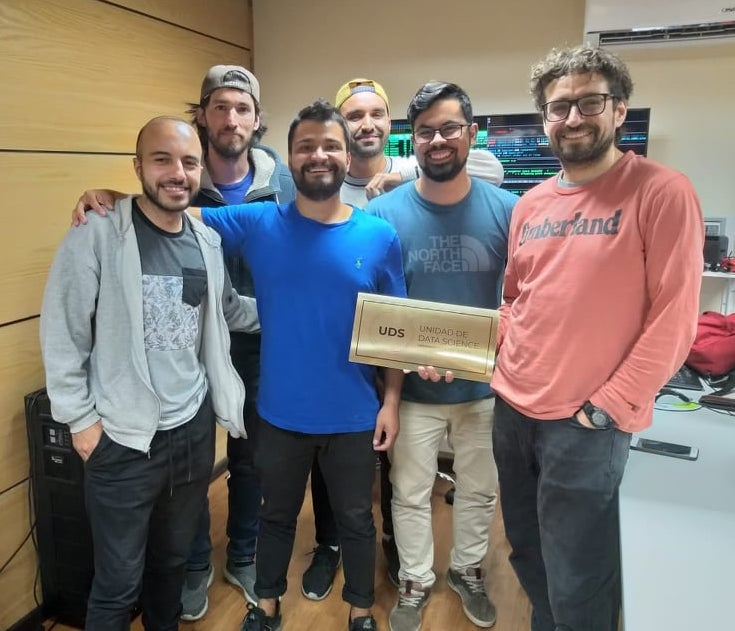
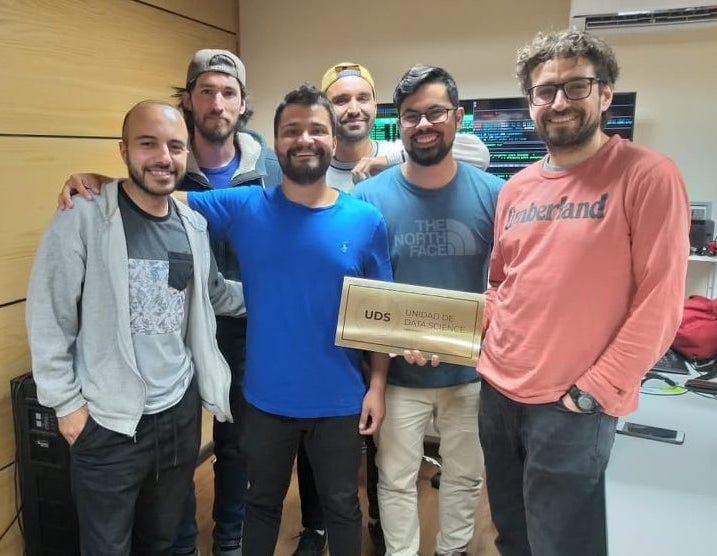
industry section

diff --git a/industry.html b/industry.html
@@ -66,7 +66,7 @@
 				  <section class="ftco-section">
 				  <div class="container">
 					  <div class="row">
-								<div id="alerce" class="col-md-11">
+								<div id="uds" class="col-md-11">
 									<div class="blog-entry ftco-animate">
 										<div class="text pt-2 mt-3">
 								  <span class="category mb-1 d-block"><a href="http://uds.udec.cl/" target="_blank">@UDS</a></a></span>
@@ -77,7 +77,7 @@
 								  <p>The project was succesfully finished and now I am doing other interesting <a href="portfolio.html">projects</a>, but always supporting UDS, specially in post-production, client contact, and guiding new projects.</p>
 								  <h4 class="mb-4">What is UDS?</a></h4>
 								  <p>Is a spin-off of the school of Engineering of UdeC, dedicated to the processing, modelling and analysis of data, generating specialized and innovative solutions for the companies issues. The main goal is to bridge the gap between the academy and industry and make our products help in decision making inside the companies.</p>
-								  <p>Moreover, we count with the support of more than 15 Professors from different areas such as sensorization, data analysis, software engineering, artficial intelligence and operation research.</p>
+								  <p>Moreover, we count with the support of more than 15 Professors from different areas such as sensorization, data analysis, software engineering, artficial intelligence, simulation, and operation research.</p>
 								  <h4 class="mb-4">What we offer?</a></h4>
 								  <div class="row justify-content-center mb-5 pb-2">
 									<div class="col-md-10 heading-section text-center ftco-animate">
@@ -94,7 +94,12 @@
 												<strong>Capacitation</strong>
 											  <br>We train technical skills and abilities to use best practices in the data manipulation. We offer two academic programs oriented to industry professionals: data science diploma and advanced data science diploma.
 											</div>
+											<br>s
 										  </div>
+										</div>
+										</div>
+										<div class="container">
+												<img src="images/udsteam.jpg" alt="uds.team" class="img-centered">
 										</div>
 									</div>
 								  </div>
